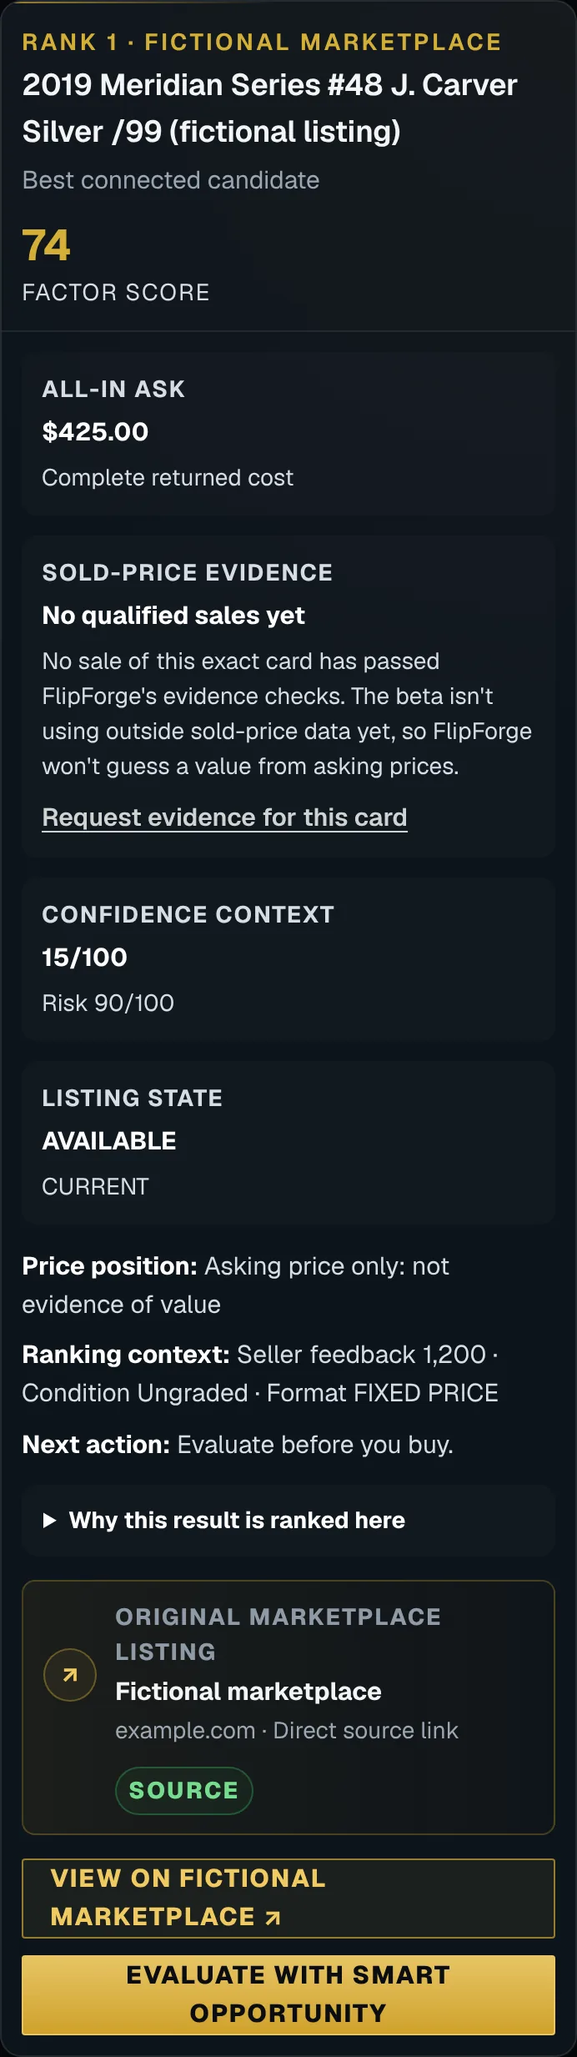
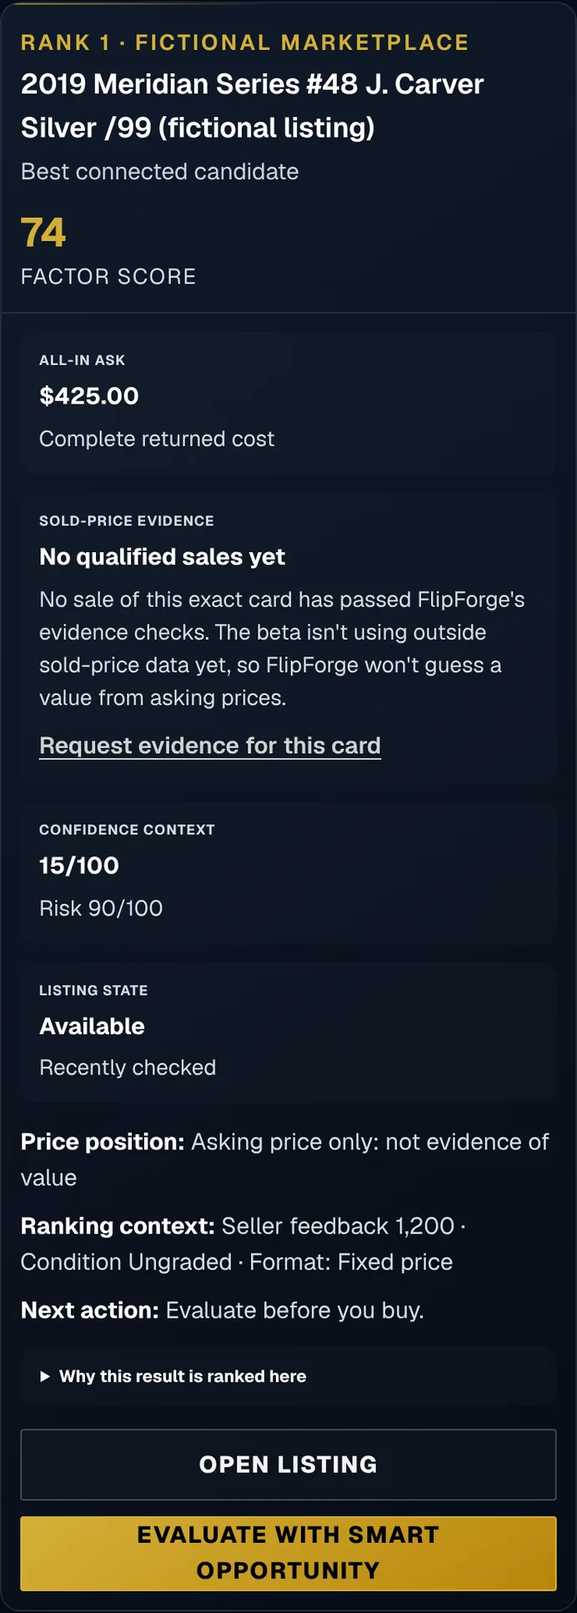
Website polish: Card Decision Intelligence™ positioning, Challenge one tap from the top, honest check markers, engagement counts (#581)
* Website polish after the Oct 27 release: positioning, faster interaction, honest check markers, engagement counts

Founder-approved post-release polish (no redesign, decision logic unchanged):

- Positioning: the hero now opens with "Card Decision Intelligence™" and the benefit line "Find opportunities.
  Test the evidence. Avoid expensive mistakes." between "Price is not proof." and the unchanged slogan
  "Before you buy. Know Why." Hero art, panel and disclosures are untouched.
- Interaction sooner: the hero buttons go straight to the Decision Challenge and Inside FlipForge (both on the
  first screen at 390 / 768 / 1440); Request Beta Access stays in the hero note and the header.
- Credibility: the four checks show their real outcome (passed, needs review, not available, context). A green tick
  appears only for a passed check, with screen-reader text, and the summary says how many need review. The Decision
  Receipt no longer shows status codes such as "NO PRICE CHANGE"; Discover shows listing state and format in plain
  words. Inside-the-app screenshots recaptured from the corrected app (fictional card, providers off).
- Measurement: hero shortcut clicks and Challenge / Inside FlipForge reach are counted (allowlisted, counts only)
  and shown to the founder as "Homepage engagement" in the operator view.
- Release reliability: the timed weekday release is paused; releases are started by hand after founder approval.
[…]

diff --git a/saas-prototype/customer-discovery.js b/saas-prototype/customer-discovery.js
@@ -83,6 +83,17 @@
     return error;
   }
 
+  // Customer words for listing codes returned by the server. Unknown codes fall back to sentence case, never raw codes.
+  const AVAILABILITY_WORDS = Object.freeze({ AVAILABLE: "Available", ENDED: "Listing ended", SOLD: "Sold", UNAVAILABLE: "Not available", UNKNOWN: "Not confirmed" });
+  const FRESHNESS_WORDS = Object.freeze({ CURRENT: "Recently checked", FRESH: "Recently checked", STALE: "May be out of date", UNKNOWN: "Not recently checked" });
+  const FORMAT_WORDS = Object.freeze({ FIXED_PRICE: "Fixed price", AUCTION: "Auction", BEST_OFFER: "Best offer", AUCTION_WITH_BUY_NOW: "Auction with buy-now price" });
+  function listingWords(map, value) {
+    const raw = String(value || "UNKNOWN").trim().toUpperCase().replace(/[\s-]+/g, "_");
+    if (Object.prototype.hasOwnProperty.call(map, raw)) return map[raw];
+    const words = raw.toLowerCase().split("_").filter(Boolean).join(" ");
+    return words ? words.charAt(0).toUpperCase() + words.slice(1) : map.UNKNOWN || "Not confirmed";
+  }
+
   function moneyFromCents(value) {
     return new Intl.NumberFormat("en-US", { style: "currency", currency: "USD", maximumFractionDigits: 2 })
       .format((Number(value) || 0) / 100);
@@ -856,7 +867,7 @@
         ? `Seller feedback ${new Intl.NumberFormat("en-US").format(sellerFeedback)}`
         : "",
       item.condition ? `Condition ${item.condition}` : "",
-      item.listingFormat ? `Format ${String(item.listingFormat).replaceAll("_", " ")}` : ""
+      item.listingFormat ? `Format: ${listingWords(FORMAT_WORDS, item.listingFormat)}` : ""
     ].filter(Boolean).join(" · ");
     const factors = item.rankingFactors && typeof item.rankingFactors === "object"
       ? Object.entries(item.rankingFactors)
@@ -894,7 +905,7 @@
     const boundary = identityReview
       ? `<div class="boundary-note"><strong>Not an exact candidate:</strong> ${escapeHtml(blockReason)} It is separated from the ranked exact matches and cannot be sent to Smart Opportunity.</div>`
       : `<div class="boundary-note"><strong>Discovery only:</strong> This active listing is not a sold comp and this score is not BUY/WATCH/VERIFY/PASS. Evaluation is a separate explicit request.</div>`;
-    return `<article class="panel customer-discovery-candidate${identityReview ? " customer-discovery-candidate-review" : ""}"><header class="panel-header"><div><span class="eyebrow">${eyebrow}</span><h2>${escapeHtml(item.title || item.cardIdentityQuery || "Active listing")}</h2><p>${escapeHtml(label)}</p></div><span class="customer-discovery-score"><strong>${escapeHtml(item.discoveryScore ?? 0)}</strong><small>Discovery score</small></span></header><div class="panel-body"><div class="customer-discovery-metrics"><div><span>All-in ask</span><strong>${moneyFromCents(item.allInAskCents)}</strong><small>${item.allInCostComplete ? "Complete returned cost" : "Cost review required"}</small></div>${soldContextMetric}<div><span>Confidence context</span><strong>${escapeHtml(evidence.calibratedConfidence ?? 0)}/100</strong><small>Risk ${escapeHtml(evidence.risk ?? 0)}/100</small></div><div><span>Listing state</span><strong>${escapeHtml(String(item.listingAvailability || "UNKNOWN").replaceAll("_", " "))}</strong><small>${escapeHtml(String(item.listingFreshness || "UNKNOWN").replaceAll("_", " "))}</small></div></div><div class="customer-discovery-copy"><p><strong>Price position:</strong> ${escapeHtml(pricePositionText)}</p>${rankingContext ? `<p><strong>Ranking context:</strong> ${escapeHtml(rankingContext)}</p>` : ""}<p><strong>Next action:</strong> ${escapeHtml(item.nextAction || "Verify the listing before evaluation.")}</p></div>${rankingDetails}<div class="customer-discovery-actions"><a class="button button-secondary" href="${escapeHtml(validHttpUrl(item.listingUrl) ? item.listingUrl : "#")}" target="_blank" rel="noopener noreferrer">Open listing</a><button class="button button-primary" type="button" data-discovery-evaluate="${index}" ${evaluateDisabled ? "disabled" : ""}>${state.evaluatingIndex === index ? "Evaluating…" : "Evaluate with Smart Opportunity"}</button></div>${state.evaluationError && state.evaluationError.index === index ? evaluationErrorMarkup(state.evaluationError.error) : state.evaluationLimitReached ? allowanceNoteMarkup() : ""}${boundary}</div></article>`;
+    return `<article class="panel customer-discovery-candidate${identityReview ? " customer-discovery-candidate-review" : ""}"><header class="panel-header"><div><span class="eyebrow">${eyebrow}</span><h2>${escapeHtml(item.title || item.cardIdentityQuery || "Active listing")}</h2><p>${escapeHtml(label)}</p></div><span class="customer-discovery-score"><strong>${escapeHtml(item.discoveryScore ?? 0)}</strong><small>Discovery score</small></span></header><div class="panel-body"><div class="customer-discovery-metrics"><div><span>All-in ask</span><strong>${moneyFromCents(item.allInAskCents)}</strong><small>${item.allInCostComplete ? "Complete returned cost" : "Cost review required"}</small></div>${soldContextMetric}<div><span>Confidence context</span><strong>${escapeHtml(evidence.calibratedConfidence ?? 0)}/100</strong><small>Risk ${escapeHtml(evidence.risk ?? 0)}/100</small></div><div><span>Listing state</span><strong>${escapeHtml(listingWords(AVAILABILITY_WORDS, item.listingAvailability))}</strong><small>${escapeHtml(listingWords(FRESHNESS_WORDS, item.listingFreshness))}</small></div></div><div class="customer-discovery-copy"><p><strong>Price position:</strong> ${escapeHtml(pricePositionText)}</p>${rankingContext ? `<p><strong>Ranking context:</strong> ${escapeHtml(rankingContext)}</p>` : ""}<p><strong>Next action:</strong> ${escapeHtml(item.nextAction || "Verify the listing before evaluation.")}</p></div>${rankingDetails}<div class="customer-discovery-actions"><a class="button button-secondary" href="${escapeHtml(validHttpUrl(item.listingUrl) ? item.listingUrl : "#")}" target="_blank" rel="noopener noreferrer">Open listing</a><button class="button button-primary" type="button" data-discovery-evaluate="${index}" ${evaluateDisabled ? "disabled" : ""}>${state.evaluatingIndex === index ? "Evaluating…" : "Evaluate with Smart Opportunity"}</button></div>${state.evaluationError && state.evaluationError.index === index ? evaluationErrorMarkup(state.evaluationError.error) : state.evaluationLimitReached ? allowanceNoteMarkup() : ""}${boundary}</div></article>`;
   }
 
   function resultsPanel() {

diff --git a/index.html b/index.html
@@ -30,6 +30,7 @@
 <link rel="stylesheet" href="assets/css/homepage-audiences-v1.css">
 <link rel="stylesheet" href="assets/css/homepage-challenge-v1.css">
 <link rel="stylesheet" href="assets/css/homepage-app-showcase-v1.css">
+<link rel="stylesheet" href="assets/css/homepage-hero-positioning-v1.css">
 <link rel="stylesheet" href="assets/css/updates-signup-v1.css">
 </head>
 <body class="ff10">
@@ -43,14 +44,16 @@
 <section class="ff10-hero" aria-labelledby="ff10-hero-title" data-ff10-hero>
   <div class="ff10-wrap ff10-hero-grid">
     <div class="ff10-hero-copy">
+      <p class="ff10-hero-category"><span>Card Decision Intelligence<sup>™</sup></span></p>
       <h1 id="ff10-hero-title" class="ff10-display ff10-hero-title"><span>Price is</span> <span>not proof.</span></h1>
+      <p class="ff10-hero-benefit"><span>Find opportunities.</span> <span>Test the evidence.</span> <span>Avoid expensive mistakes.</span></p>
       <p class="ff10-hero-brand"><span>Before</span> <span>you buy.</span> <span>Know Why.</span></p>
       <p class="ff10-lede">A price tells you what someone asked or paid. FlipForge shows what it actually proves, and what you should pay.</p>
       <div class="ff10-actions">
-        <a class="ff10-btn ff10-btn-gold" href="beta-application.html">Request Beta Access</a>
-        <a class="ff10-btn ff10-btn-line" href="#demo">Try the price demo</a>
+        <a class="ff10-btn ff10-btn-gold" href="#demo" data-ff-hero-jump="challenge">Try the Decision Challenge</a>
+        <a class="ff10-btn ff10-btn-line" href="#inside-the-app" data-ff-hero-jump="app">See Inside FlipForge</a>
       </div>
-      <p class="ff10-hero-note">Controlled Private Beta. Invited collectors only.</p>
+      <p class="ff10-hero-note">Controlled Private Beta. Invited collectors only. <a href="beta-application.html" data-ff-hero-apply>Request Beta Access</a></p>
       <div class="ff10-verdict-key"><p>Every card ends in one of four decisions, with the reason attached.</p><ul aria-label="FlipForge decisions"><li>BUY</li><li>WATCH</li><li>VERIFY</li><li>PASS</li></ul></div>
     </div>
 
@@ -510,8 +513,8 @@
         <figure class="ff10-app-shot">
           <div class="ff10-app-window" tabindex="0" role="region" aria-label="Discover screen. Scroll to see all of it.">
             <picture>
-              <source media="(max-width:760px)" srcset="assets/images/ff-app-discover-m.webp" width="692" height="2466">
-              <img src="assets/images/ff-app-discover.webp" width="1400" height="1074" loading="lazy" decoding="async"
+              <source media="(max-width:760px)" srcset="assets/images/ff-app-discover-m.webp" width="692" height="1934">
+              <img src="assets/images/ff-app-discover.webp" width="1400" height="849" loading="lazy" decoding="async"
                 alt="FlipForge Discover result for a fictional 2019 Meridian Series #48 J. Carver Silver /99 listing: all-in ask $425, no qualified sales yet, confidence 15 out of 100, risk 90 out of 100, and an Evaluate with Smart Opportunity button.">
             </picture>
           </div>
@@ -533,9 +536,9 @@
         <figure class="ff10-app-shot">
           <div class="ff10-app-window" tabindex="0" role="region" aria-label="Evaluate screen. Scroll to see all of it.">
             <picture>
-              <source media="(max-width:760px)" srcset="assets/images/ff-app-evaluate-m.webp" width="692" height="2898">
-              <img src="assets/images/ff-app-evaluate.webp" width="1400" height="1341" loading="lazy" decoding="async"
-                alt="FlipForge decision screen: Verify before acting. There is not enough matching evidence yet to make this purchase confidently. Four checks: exact card, matched sales, price check with supported value unavailable, and uncertainty at 15 out of 100 confidence and 90 out of 100 risk.">
+              <source media="(max-width:760px)" srcset="assets/images/ff-app-evaluate-m.webp" width="692" height="2489">
+              <img src="assets/images/ff-app-evaluate.webp" width="1400" height="1224" loading="lazy" decoding="async"
+                alt="FlipForge decision screen: Verify before acting. There is not enough matching evidence yet to make this purchase confidently. Four checks: exact card, matched sales, price check with supported value unavailable, and uncertainty at 15 out of 100 confidence and 90 out of 100 risk. Three checks are marked as needing review; uncertainty is shown for context.">
             </picture>
           </div>
           <figcaption>Evaluate · decision from the real engine</figcaption>
@@ -555,7 +558,7 @@
         </div>
         <figure class="ff10-app-shot ff10-app-shot-receipt">
           <div class="ff10-app-window" tabindex="0" role="region" aria-label="Decision Receipt. Scroll to read all of it.">
-            <img src="assets/images/ff-app-receipt.webp" width="620" height="4494" loading="lazy" decoding="async"
+            <img src="assets/images/ff-app-receipt.webp" width="620" height="3365" loading="lazy" decoding="async"
               alt="FlipForge Decision Receipt for the fictional card: decision VERIFY; identity review required; 0 sales at decision; $425 ask with supported value withheld; 90 out of 100 risk and 15 out of 100 confidence; traceback to the Smart Opportunity engine version.">
           </div>
           <figcaption>Decision Receipt · scroll to read</figcaption>
@@ -605,6 +608,7 @@
 <script src="assets/js/homepage-audiences-v1.js" defer></script>
 <script src="assets/js/homepage-challenge-v1.js" defer></script>
 <script src="assets/js/homepage-app-showcase-v1.js" defer></script>
+<script src="assets/js/homepage-engagement-v1.js" defer></script>
 <script src="assets/js/updates-signup.js" defer></script>
 <script src="assets/js/section-navigation.js" defer></script>
 </body>

diff --git a/saas-prototype/customer-cdi-signal-stack-v1.js b/saas-prototype/customer-cdi-signal-stack-v1.js
@@ -264,12 +264,36 @@
     return uncertaintyVisual(signal);
   }
 
+  // What each check's marker says. Display only: it reads the values already shown on the row and never changes the
+  // decision. A green tick appears only when the check actually succeeded; an unresolved or missing check never gets one.
+  const OUTCOMES = Object.freeze({
+    passed: { mark: "\u2713", label: "Check passed" },
+    review: { mark: "!", label: "Needs review" },
+    missing: { mark: "\u2013", label: "Not available yet" },
+    context: { mark: "i", label: "Shown for context, not a pass or fail" }
+  });
+
+  function signalOutcome(signal) {
+    if (signal.key === "exact") return signal.verified ? "passed" : "review";
+    if (signal.key === "sales") {
+      if (!Number.isFinite(signal.accepted)) return "missing";
+      return signal.accepted > 0 ? "passed" : "review";
+    }
+    if (signal.key === "price") {
+      const supported = Number(signal.supported);
+      return Number.isFinite(supported) && supported > 0 ? "passed" : "review";
+    }
+    return Number.isFinite(signal.confidence) && Number.isFinite(signal.risk) ? "context" : "missing";
+  }
+
   function signalMarkup(signal, index) {
-    return '<article class="ff-cdi-signal" data-ff-cdi-signal="' + escapeHtml(signal.key) + '" data-step="' + String(index + 1) + '">' +
+    const outcome = signalOutcome(signal);
+    return '<article class="ff-cdi-signal" data-ff-cdi-signal="' + escapeHtml(signal.key) + '" data-outcome="' + outcome + '" data-step="' + String(index + 1) + '">' +
       '<div class="ff-cdi-signal-index">0' + String(index + 1) + '</div>' +
       signalVisual(signal) +
       '<div class="ff-cdi-signal-copy"><span>' + escapeHtml(signal.label) + '</span><strong>' + escapeHtml(signal.value) + '</strong><small>' + escapeHtml(signal.caption) + '</small></div>' +
-      '<span class="ff-cdi-signal-state" aria-hidden="true">✓</span>' +
+      '<span class="ff-cdi-signal-state" data-outcome="' + outcome + '" title="' + OUTCOMES[outcome].label + '">' +
+        '<span aria-hidden="true">' + OUTCOMES[outcome].mark + '</span><span class="ff-cdi-sr">' + OUTCOMES[outcome].label + '</span></span>' +
       '</article>';
   }
 
@@ -372,7 +396,12 @@
 
     const finish = () => {
       rows.forEach(row => row.classList.add("is-complete"));
-      if (caption) caption.textContent = "Four checks complete. Open the evidence or Decision Receipt for the deeper trail.";
+      if (caption) {
+        const open = rows.filter(row => row.dataset.outcome === "review" || row.dataset.outcome === "missing").length;
+        caption.textContent = open
+          ? "Four checks complete. " + (open === 1 ? "1 needs" : open + " need") + " review before you rely on this decision. Open the evidence or Decision Receipt for the deeper trail."
+          : "Four checks complete. Open the evidence or Decision Receipt for the deeper trail.";
+      }
       if (after) after.hidden = false;
       state.running.delete(stack);
     };

diff --git a/assets/css/homepage-hero-positioning-v1.css b/assets/css/homepage-hero-positioning-v1.css
@@ -1,0 +1,42 @@
+/* FlipForge homepage hero positioning (v1). Adds the category name above "Price is not proof." and the benefit line,
+ * inside the existing v10 hero. The hero layout, art, panel, palette and "Before you buy. Know Why." are unchanged:
+ * this file only adds two rows to the existing grid and styles the new lines with the v10 tokens. */
+
+/* Desktop grid: category, title, benefit, brand line, lede, actions, note, then the decision key (fills the rest). */
+.ff10-hero-grid{grid-template-rows:auto auto auto auto auto auto auto 1fr}
+.ff10-hero-category{grid-column:1;grid-row:1}
+.ff10-hero-title{grid-row:2}
+.ff10-hero-benefit{grid-column:1;grid-row:3}
+.ff10-hero-brand{grid-row:4}
+.ff10-hero .ff10-lede{grid-row:5}
+.ff10-hero .ff10-actions{grid-row:6}
+.ff10-hero-note{grid-row:7}
+.ff10-verdict-key{grid-row:8;margin-top:32px}
+
+/* The category: the name of what FlipForge is, set as the hero's opening line. */
+.ff10 .ff10-hero-category{display:flex;align-items:center;gap:14px;margin:0 0 clamp(16px,1.6vw,24px)!important;
+  font-size:clamp(14px,1.25vw,18px);font-weight:800;letter-spacing:.24em;text-transform:uppercase;line-height:1.2;color:var(--g)}
+.ff10-hero-category::before{content:"";flex:none;width:clamp(28px,3vw,44px);height:2px;background:var(--g)}
+.ff10-hero-category sup{font-size:.62em;letter-spacing:0;margin-left:.08em;vertical-align:.55em}
+
+/* The benefit: what the category does for a buyer, directly under the headline. */
+.ff10 .ff10-hero-benefit{margin-top:clamp(18px,1.8vw,26px)!important;max-width:34em;
+  font-size:clamp(19px,1.6vw,25px);font-weight:600;letter-spacing:-.015em;line-height:1.3;color:rgba(255,255,255,.9)}
+.ff10-hero-benefit span{white-space:nowrap}
+.ff10 .ff10-hero-brand{margin-top:clamp(14px,1.4vw,20px)!important}
+
+/* Beta access stays one tap away from the hero, as a clear link beside the beta note. */
+.ff10-hero-note a{margin-left:6px;color:var(--g);font-weight:700;text-decoration:underline;text-underline-offset:3px;white-space:nowrap}
+.ff10-hero-note a::after{content:" \2192"}
+.ff10-hero-note a:hover{color:var(--w)}
+
+@media(min-width:761px) and (max-width:1100px){
+  .ff10-hero-benefit{max-width:30em}
+}
+@media(max-width:760px){
+  .ff10 .ff10-hero-category{gap:10px;font-size:13px;letter-spacing:.2em;margin-bottom:14px!important}
+  .ff10 .ff10-hero-benefit{font-size:clamp(18px,5vw,21px);margin-top:16px!important}
+  .ff10-hero-benefit span{white-space:normal}
+  .ff10 .ff10-hero-brand{margin-top:12px!important}
+  .ff10-hero-note a{display:inline-block;margin:6px 0 0}
+}

diff --git a/scripts/validate-brand-assets.js b/scripts/validate-brand-assets.js
@@ -80,8 +80,13 @@ const homepageFailures = [];
 if (!index.includes('assets/brand/flipforge-logo-horizontal.svg')) homepageFailures.push('approved horizontal logo lockup');
 if (!index.includes(OFFICIAL_SLOGAN)) homepageFailures.push('locked slogan');
 if (!index.includes(CURRENT_DESCRIPTOR_DISPLAY)) homepageFailures.push('Card Decision Intelligence descriptor');
-// Founder decision 2026-10-20: "Price is not proof." leads; the locked slogan sits directly beneath the headline.
-if (!/<h1 id="ff10-hero-title"[^>]*><span>Price is<\/span> <span>not proof\.<\/span><\/h1>\s*<p class="ff10-hero-brand"><span>Before<\/span> <span>you buy\.<\/span> <span>Know Why\.<\/span><\/p>/.test(index)) homepageFailures.push('locked slogan directly beneath the positioning headline');
+// Founder decisions 2026-10-20 and 2026-10-27: the hero reads, in this exact order and with nothing in between,
+// the category "Card Decision Intelligence™", the headline "Price is not proof.", the benefit
+// "Find opportunities. Test the evidence. Avoid expensive mistakes." and the locked slogan "Before you buy. Know Why.".
+if (!/<p class="ff10-hero-category"><span>Card Decision Intelligence<sup>™<\/sup><\/span><\/p>\s*<h1 id="ff10-hero-title"[^>]*><span>Price is<\/span> <span>not proof\.<\/span><\/h1>\s*<p class="ff10-hero-benefit"><span>Find opportunities\.<\/span> <span>Test the evidence\.<\/span> <span>Avoid expensive mistakes\.<\/span><\/p>\s*<p class="ff10-hero-brand"><span>Before<\/span> <span>you buy\.<\/span> <span>Know Why\.<\/span><\/p>/.test(index)) homepageFailures.push('approved hero hierarchy: category, positioning headline, benefit, then the locked slogan');
+// Exactly one hero headline, one category line and one slogan line, so the hierarchy cannot be duplicated or reordered elsewhere.
+if ((index.match(/class="ff10-hero-category"/g) || []).length !== 1 || (index.match(/id="ff10-hero-title"/g) || []).length !== 1
+  || (index.match(/class="ff10-hero-brand"/g) || []).length !== 1 || (index.match(/class="ff10-hero-benefit"/g) || []).length !== 1) homepageFailures.push('single approved hero hierarchy');
 if (!index.includes('data-ff10-hero') || !index.includes('class="ff10-panel"')) homepageFailures.push('single orchestrated hero with the decision panel');
 if (!index.includes('data-ffdemo') || !index.includes('Max Buy')) homepageFailures.push('illustrative interactive Max Buy comparison');
 if (!index.includes('assets/css/homepage-v10.css')) homepageFailures.push('interactive landing stylesheet');

diff --git a/assets/js/beta-operator.js b/assets/js/beta-operator.js
@@ -43,7 +43,17 @@
     ["Applications",c.applicationsSubmitted,pct(c.applicationsSubmitted,c.betaFormStarted)],
     ["Guide viewed",c.onboardingGuideViewed,pct(c.onboardingGuideViewed,c.applicationsSubmitted)],
     ["Workspace intent",c.workspaceClicked,pct(c.workspaceClicked,c.onboardingGuideViewed)]
-  ];document.querySelector("[data-funnel-grid]").innerHTML=steps.map(([name,count,note])=>`<article class="ff-funnel-step"><span>${esc(name)}</span><strong>${esc(count||0)}</strong><small>${esc(note)}</small></article>`).join("")}
+  ];document.querySelector("[data-funnel-grid]").innerHTML=steps.map(([name,count,note])=>`<article class="ff-funnel-step"><span>${esc(name)}</span><strong>${esc(count||0)}</strong><small>${esc(note)}</small></article>`).join("");
+    const h=state.funnel?.homepage||{};const home=[
+    ["Challenge reached",h.challengeReached,"Decision Challenge on screen"],
+    ["Challenge tried",h.challengeTried,pct(h.challengeTried,h.challengeReached)],
+    ["Challenge finished",h.challengeFinished,pct(h.challengeFinished,h.challengeTried)],
+    ["Inside FlipForge reached",h.insideAppReached,"App screens on screen"],
+    ["App screens opened",h.appScreensOpened,"Tab views, not visitors"],
+    ["Hero shortcuts used",h.heroShortcutsUsed,"Challenge or app link at the top"],
+    ["Audience chosen",h.audienceSelected,"Audience selector choices"],
+    ["Beta access clicked",h.betaCtaClicked,"Every Request Beta Access link"]
+  ];const homeGrid=document.querySelector("[data-homepage-funnel-grid]");if(homeGrid)homeGrid.innerHTML=home.map(([name,count,note])=>`<article class="ff-funnel-step"><span>${esc(name)}</span><strong>${esc(count||0)}</strong><small>${esc(note)}</small></article>`).join("")}
   function filtered(){const query=state.search.toLowerCase();return state.applications.filter(item=>{const activeMatch=state.view==="ALL"||(state.view==="REMOVED"?item.status==="REMOVED":item.status!=="REMOVED");const statusMatch=state.filter==="ALL"||item.status===state.filter;const haystack=`${item.applicant?.fullName||""} ${item.applicant?.email||""} ${item.cohort||""} ${item.applicant?.testingFocus||""}`.toLowerCase();return activeMatch&&statusMatch&&(!query||haystack.includes(query))})}
   function syncDirectorySelection(){const items=filtered();if(!state.selectedId||!items.some(item=>item.id===state.selectedId))state.selectedId=items[0]?.id||""}
   // Plain-language access for each tester, shown as a clear badge in the directory (founder feedback 2026-10-21).

diff --git a/assets/js/homepage-engagement-v1.js b/assets/js/homepage-engagement-v1.js
@@ -1,0 +1,29 @@
+/* FlipForge homepage engagement counts (v1). Counts, never people: how often the hero links to the Decision Challenge
+ * and Inside FlipForge are used, and how often each of those sections is actually reached on screen.
+ * Sent through the existing allowlisted ff:conversion channel (event, page, placement only). No storage, no identifiers. */
+(() => {
+  'use strict';
+  const track = (event, placement) => document.dispatchEvent(new CustomEvent('ff:conversion', {detail: {event, placement}}));
+
+  document.querySelectorAll('[data-ff-hero-jump]').forEach(link => {
+    link.addEventListener('click', () => track('hero_jump_clicked', `hero-${link.dataset.ffHeroJump}`));
+  });
+
+  // A section counts as reached once per page view, when at least 35% of it has been on screen.
+  const sections = [['[data-ff-challenge]', 'challenge'], ['#inside-the-app', 'inside-app']]
+    .map(([selector, placement]) => [document.querySelector(selector), placement])
+    .filter(([element]) => element);
+  if (!sections.length || !('IntersectionObserver' in window)) return;
+  const seen = new Set();
+  const observer = new IntersectionObserver(entries => {
+    entries.forEach(entry => {
+      if (!entry.isIntersecting) return;
+      const placement = entry.target.dataset.ffEngagement;
+      if (seen.has(placement)) return;
+      seen.add(placement);
+      observer.unobserve(entry.target);
+      track('section_viewed', placement);
+    });
+  }, {threshold: 0.35});
+  sections.forEach(([element, placement]) => { element.dataset.ffEngagement = placement; observer.observe(element); });
+})();

diff --git a/assets/js/conversion-events.js b/assets/js/conversion-events.js
@@ -163,8 +163,8 @@
   };
 
   // Homepage experiences report counts only (which audience, which call, whether finished): no personal data.
-  const experienceEvents=new Set(["audience_selected","challenge_answered","challenge_completed","demo_interacted","app_screen_viewed","beta_cta_clicked"]);
-  const experiencePlacement=/^(audience-(flipper|investor|collector|dealer|grading)|challenge(-(buy|investigate|pass))?|demo|app-(discover|evaluate|receipt))$/;
+  const experienceEvents=new Set(["audience_selected","challenge_answered","challenge_completed","demo_interacted","app_screen_viewed","hero_jump_clicked","section_viewed","beta_cta_clicked"]);
+  const experiencePlacement=/^(audience-(flipper|investor|collector|dealer|grading)|challenge(-(buy|investigate|pass))?|demo|app-(discover|evaluate|receipt)|hero-(challenge|app)|inside-app)$/;
   document.addEventListener("ff:conversion",event=>{
     const detail=event.detail||{};
     if(!experienceEvents.has(detail.event)||!experiencePlacement.test(String(detail.placement||"")))return;
@@ -176,7 +176,7 @@
     if(link.closest(".footer"))return"footer";
     if(link.closest(".ff-dossier-spotlight"))return"sample-spotlight";
     if(link.closest(".ff-evidence"))return"evidence";
-    if(link.closest(".page-hero,.hero,.ffh,.decision-hero,.ff-dic-hero"))return"hero";
+    if(link.closest(".page-hero,.hero,.ffh,.ff10-hero,.decision-hero,.ff-dic-hero"))return"hero";
     return"page";
   };
 

diff --git a/assets/css/beta-operator-v1.css b/assets/css/beta-operator-v1.css
@@ -194,3 +194,4 @@
 .ff-access-status{display:block;margin-top:5px;color:var(--op-muted);font-size:11px;letter-spacing:.03em}
 
 .ff-card-reference{border:1px solid rgba(212,175,55,.45);border-radius:10px;background:rgba(212,175,55,.05);padding:14px;margin:0 0 14px}.ff-card-reference h4{margin:0 0 6px;color:var(--op-gold);font-size:11px;text-transform:uppercase;letter-spacing:.12em}.ff-card-identity{margin:0 0 12px;font-size:16px;font-weight:800;line-height:1.4;overflow-wrap:anywhere}.ff-card-reference .ff-detail-grid{margin-bottom:0}.ff-card-reference .ff-feedback-boundary{margin-bottom:0}.ff-card-missing{color:var(--op-muted);font-style:normal;font-weight:600}
+.ff-funnel-subhead{margin:0;padding:16px 22px 0;border-top:1px solid var(--op-line);color:var(--op-gold);font-size:11px;font-weight:800;letter-spacing:.2em;text-transform:uppercase}[data-homepage-funnel-grid]{grid-template-columns:repeat(4,1fr);row-gap:18px}[data-homepage-funnel-grid] .ff-funnel-step:nth-child(4n){border-right:0}@media(max-width:700px){[data-homepage-funnel-grid]{grid-template-columns:repeat(2,1fr)}}

diff --git a/saas-prototype/customer-cdi-signal-stack-v1.css b/saas-prototype/customer-cdi-signal-stack-v1.css
@@ -226,6 +226,12 @@
   opacity:1;
   transform:scale(1);
 }
+/* The marker states the check's real outcome: only a passed check is green. */
+.ff-cdi-signal-state[data-outcome="review"]{background:rgba(241,185,76,.14);color:#f1b94c;box-shadow:inset 0 0 0 1px rgba(241,185,76,.5)}
+.ff-cdi-signal-state[data-outcome="missing"]{background:rgba(255,255,255,.06);color:rgba(255,255,255,.62);box-shadow:inset 0 0 0 1px rgba(255,255,255,.22)}
+.ff-cdi-signal-state[data-outcome="context"]{background:rgba(255,255,255,.06);color:rgba(255,255,255,.78);box-shadow:inset 0 0 0 1px rgba(255,255,255,.28);font-style:italic;font-family:Georgia,serif}
+.ff-cdi-sr{position:absolute;width:1px;height:1px;overflow:hidden;clip:rect(0 0 0 0);white-space:nowrap}
+.ff-cdi-signal-state{position:relative}
 .ff-cdi-visual{
   position:relative;
   display:grid;

diff --git a/saas-prototype/decision-intelligence-ux-v2.js b/saas-prototype/decision-intelligence-ux-v2.js
@@ -181,7 +181,9 @@
     const decision = String(detail?.recommendation || "UNKNOWN").toUpperCase();
     const accepted = Math.max(0, safeNumber(evidence?.acceptedExactCompletedSales));
     const changeSummary = String(detail?.changeSummary || "").trim();
-    if (changeSummary) return changeSummary;
+    // changeSummary is sometimes a status code (e.g. "NO PRICE CHANGE", "NO_PRICE_CHANGE") describing what changed since the
+    // last evaluation. A code is never shown to customers here: the plain guidance for the saved decision is used instead.
+    if (changeSummary && !/^[A-Z0-9]+(?:[ _][A-Z0-9]+)*$/.test(changeSummary)) return changeSummary;
     if (decision === "VERIFY" && accepted === 0) {
       return "A completed sale for the exact card, grade and parallel that passes current FlipForge evidence checks.";
     }

diff --git a/operator-beta.html b/operator-beta.html
@@ -46,6 +46,8 @@
     <section class="ff-operator-panel" aria-labelledby="funnel-heading">
       <header><div><span class="ff-operator-kicker">Last 30 days</span><h2 id="funnel-heading">Acquisition funnel</h2></div><p>Directional interactions—not unique visitors or accuracy claims.</p></header>
       <div class="ff-funnel-grid" data-funnel-grid></div>
+      <h3 class="ff-funnel-subhead">Homepage engagement</h3>
+      <div class="ff-funnel-grid" data-homepage-funnel-grid></div>
     </section>
 
     <section class="ff-operator-panel ff-application-panel" aria-labelledby="applications-heading">
